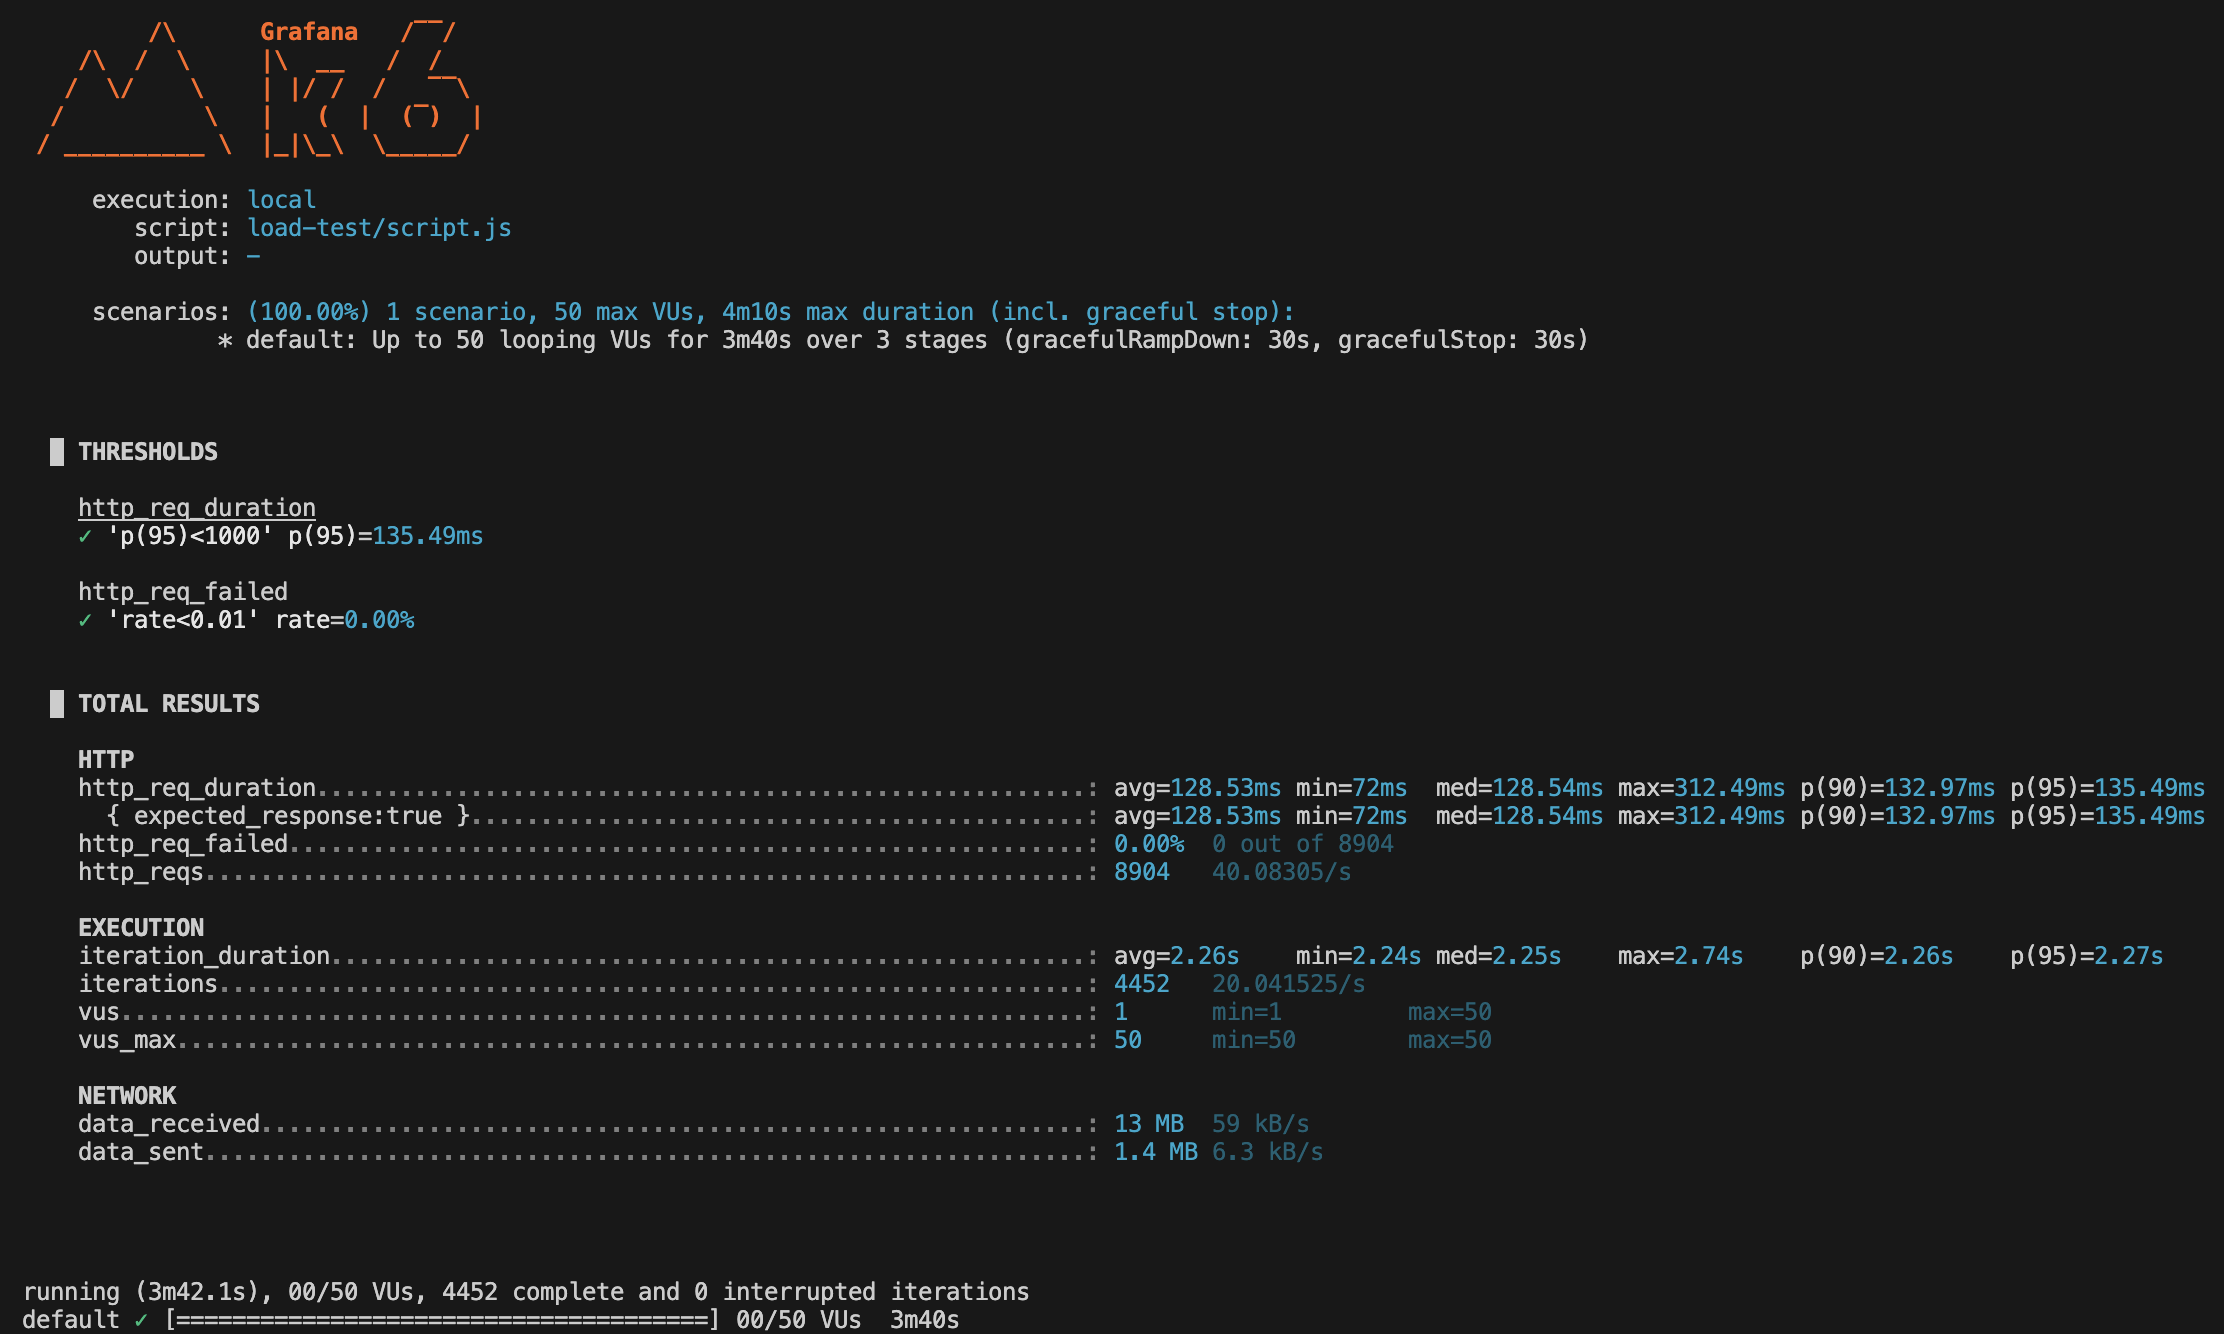
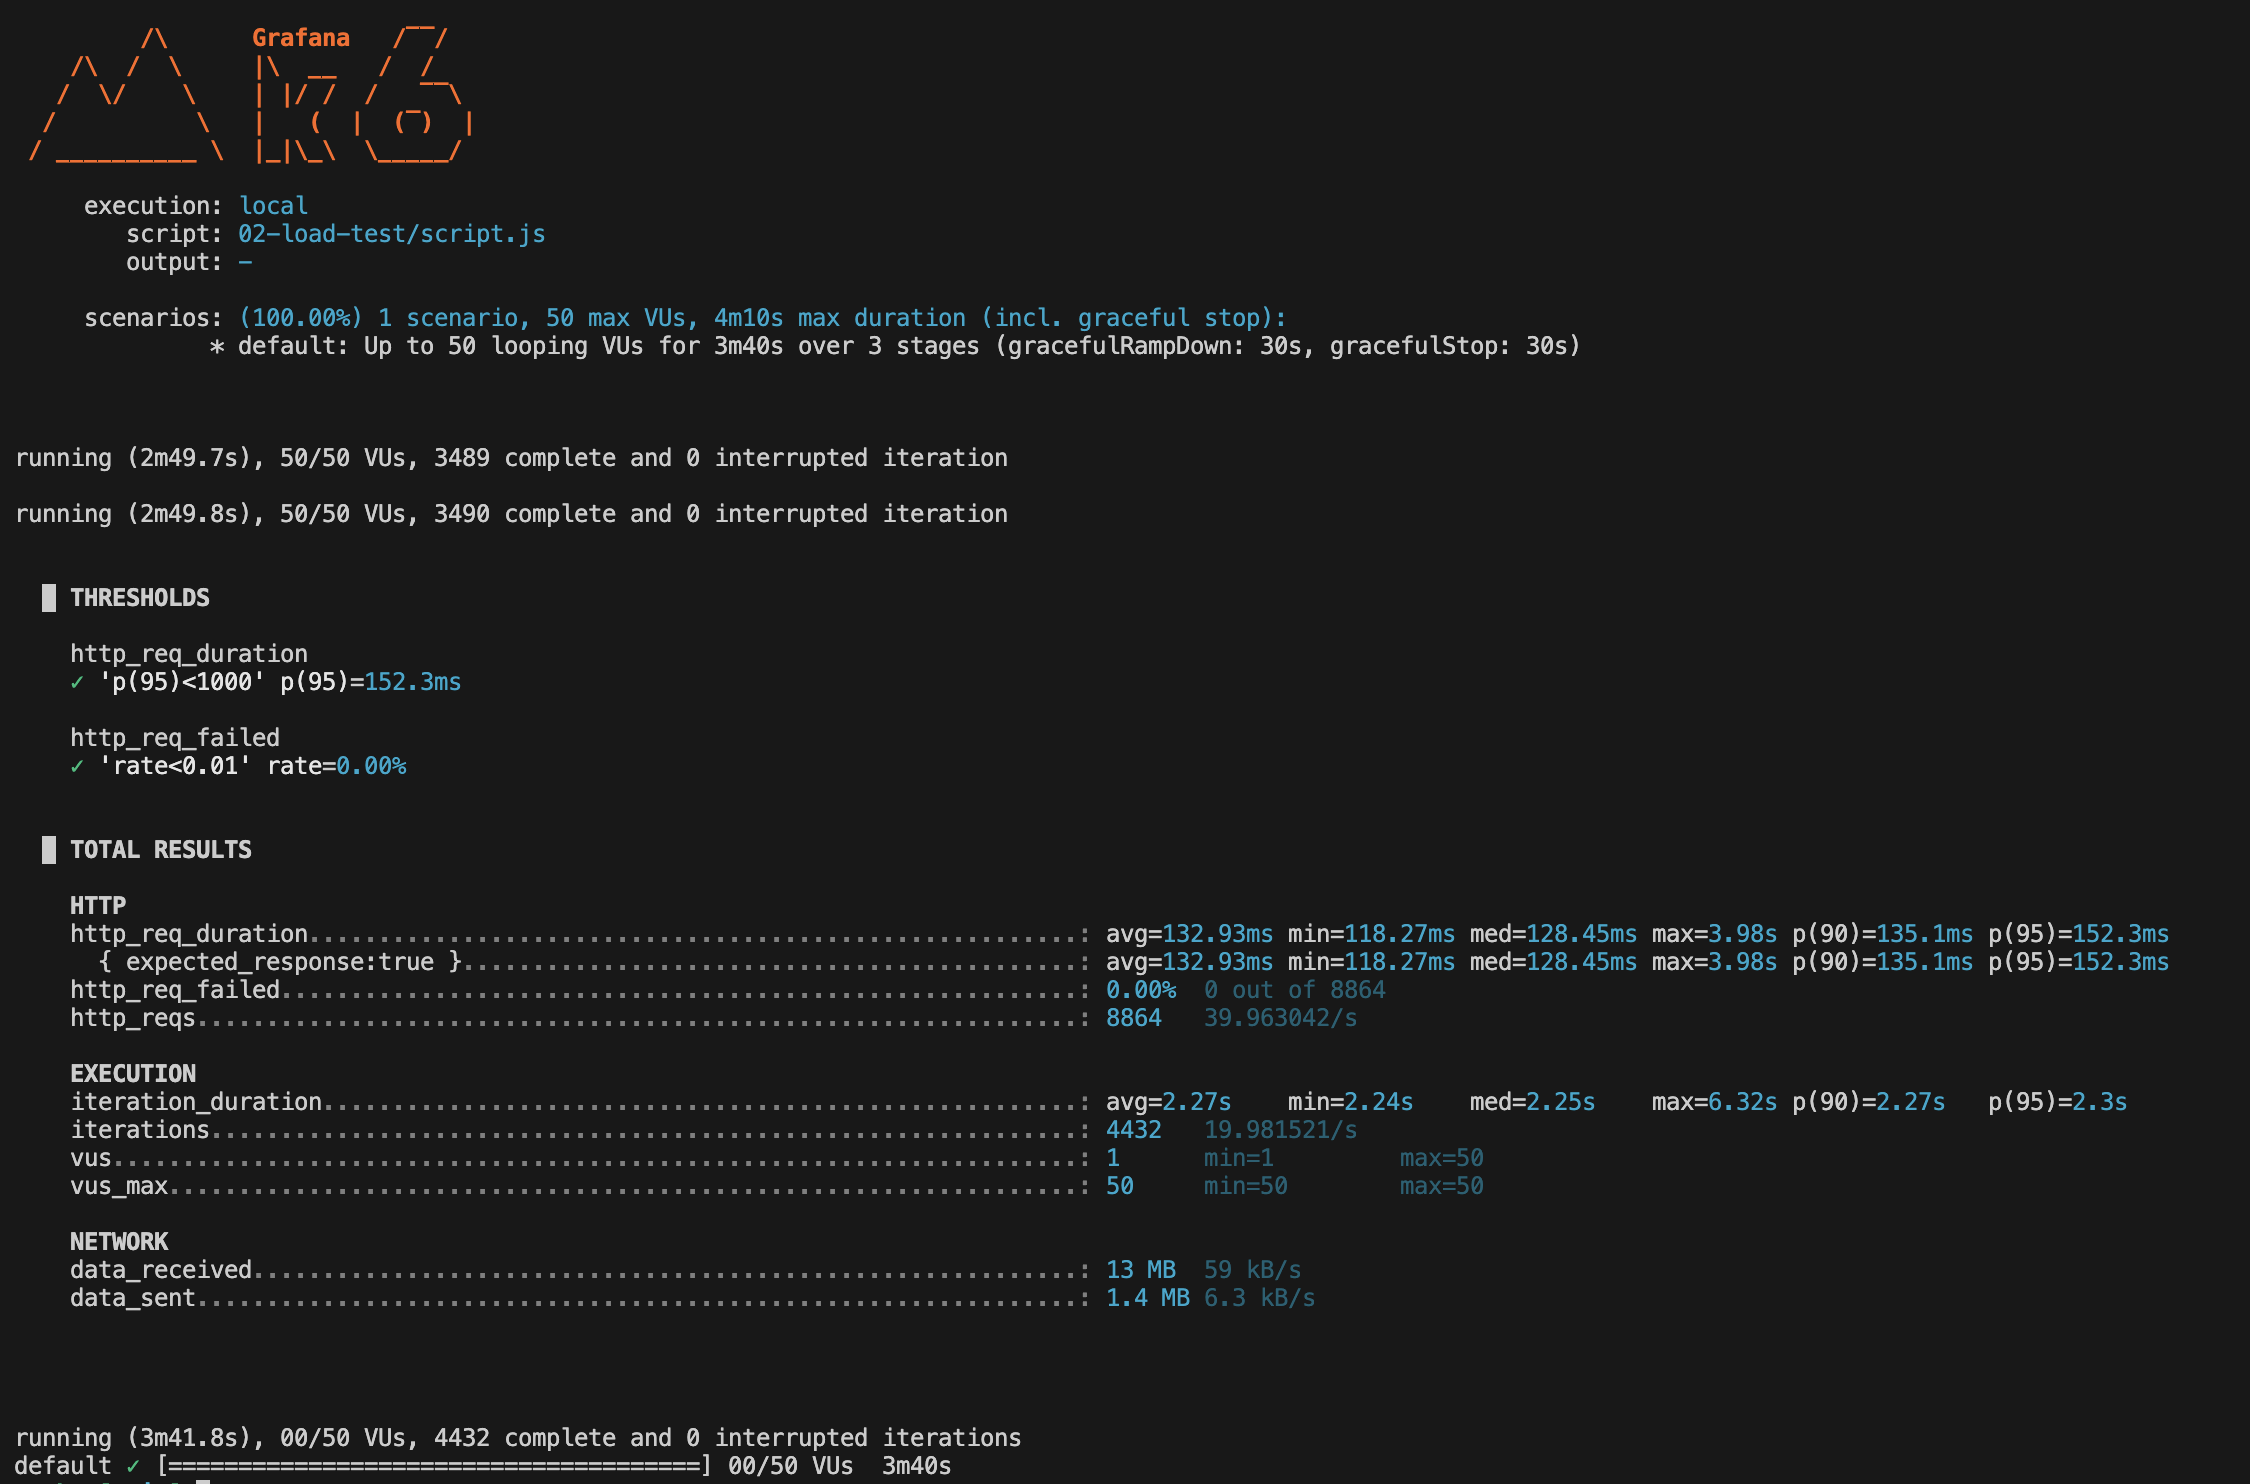
Update

diff --git a/02-load-test/runnable-example.md b/02-load-test/runnable-example.md
@@ -34,26 +34,26 @@ Output from k6:
   - Ramp-up: 0 → 50 VUs in 20s
   - Sustained: 50 VUs for 3m
   - Ramp-down: 50 → 0 VUs in 20s
-- Total duration: ~3m42s
+- Total duration: ~3m41.8s
 - 4452 iterations completed, ~20 iterations/sec
 
 ### Observed behavior
 
 - Application responded consistently under load.
 - No HTTP request failures observed (`0.00% failure rate`).
-- 95% of requests completed within 135.49ms (well below 1s threshold).
+- 95% of requests completed within 152.3ms (well below 1s threshold).
 
 ### Metrics highlights
 
 - Response time:
-  - Avg: 128.53ms
-  - p(90): 132.97ms
-  - p(95): 135.49ms
-  - Max: 312.49ms
+  - Avg: 132.93ms
+  - p(90): 135.1ms
+  - p(95): 152.3ms
+  - Max: 3.98s
 - Request rate:
-  - 40 requests/sec overall.
+  - 39.96 requests/sec overall.
 - Iterations:
-  - 4452 iterations (avg iteration ~2.26s)
+  - 4432 iterations (avg iteration ~2.27s)
 
 ### Data transferred
 
@@ -63,7 +63,7 @@ Output from k6:
 ### Overall analysis
 
 Thresholds met:
-- p(95)<1000ms: 135.49ms
+- p(95)<1000ms: 152.3ms
 - HTTP failures <1%: 0%
 
 Performance stable under 50 concurrent users.

diff --git a/01-smoke-test/runnable-example.md b/01-smoke-test/runnable-example.md
@@ -57,15 +57,15 @@ Failing requests (404):
     - 2 due to 404.
 - Throughput:
     - `http_reqs: 10` total requests.
-    - `0.464 req/s` request rate.
+    - `0.465 req/s` request rate.
 - Response times for successful requests:
-    - avg = 109.56 ms
-    - p(90) = 140.71 ms
-    - p(95) = 144.58 ms
+    - avg = 104.34 ms
+    - p(90) = 132.22 ms
+    - p(95) = 132.82 ms
     
     These are all well below the common threshold of 300 ms → good latency.
 
-- Iteration duration: ~10.76 s per iteration (due to `sleep(1)` calls after each request).
+- Iteration duration: ~10.74 s per iteration (due to `sleep(1)` calls after each request).
 
 ### Data transferred
 
